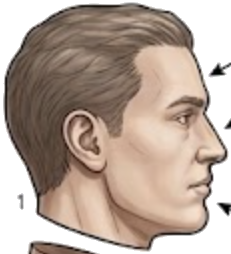
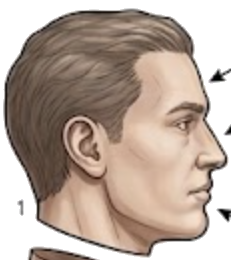
ART-1 item 2 shipped 19.09 (level worker): the real part art stops being stretched onto its collider box, and the check that named it goes green
The previous cycle (7dcf65e7) measured the card's own acceptance clause - "no stretched or squashed sprites; check against the collider bounds numerically" - and found 10 of 10 human parts drawn 1.05x (head) to 2.67x (hand) off their own aspect, because both the rig and the gallery stretch the whole PNG canvas onto the box from Human.cs and the legacy part sheets were cropped to the silhouette, not framed in the box's aspect. This commit takes that report's own recommended fix (option 1, mechanical, no painted pixel touched): Tools/import-part-art.py grows pad_to_aspect(), which adds a centred transparent margin so canvasW/canvasH == box.x/box.y and then sets the .meta spritePixelsToUnits = round(canvasW / box.x) so the canvas' own world size IS the box (the run fails if |canvasW/ppu - box.x| > 0.0015 m), plus --groups to restrict a run to one group. The boxes are read from Assets/Human.cs, the same authority the checker uses; the map is duplicated on purpose so the importer cannot silently agree with the checker. Only the ten Assets/Resources/Art/Human PNGs and their .meta move (guids unchanged, md5("ART1A:"+key)); no .cs file is created or edited and Build/Headless was not rebuilt, so the trial player every reference run is measured on does not carry the new bytes at all. Result: python Tools/art1-fit-audit.py now reads parts=11 distorted=0 (it read distorted=10 this morning), natural size and collider box identical for every part, the finish sign unchanged. Consequence
[…]

diff --git a/Tools/import-part-art.py b/Tools/import-part-art.py
@@ -1,5 +1,5 @@
 #!/usr/bin/env python3
-"""ART-1a - make the per-part art reachable at runtime.
+"""ART-1a / ART-1 item 2 - make the per-part art reachable at runtime AND fit.
 
 The 62 real PNGs live in Assets/LegacyArt, which is NOT a Resources folder, so
 Resources.Load cannot see them (ART-0 finding 2). This script imports the
@@ -8,18 +8,33 @@ space ArtLibrary already uses ("Human/head" -> Art/Human/head.png) - and writes
 a Sprite .meta for each file, copied from the shape ART-0 already proved
 (Assets/Resources/Art/bark.png.meta).
 
+ART-1 acceptance item 2 (added 19.09): a human part is drawn by `Sliced` onto
+its shipping collider box (`HumanSegment` and `GalleryScene` both set
+`sr.size` = the box from `Assets/Human.cs`), so a canvas whose OWN aspect
+differs from the box's is scaled by a different factor in X and in Y - the
+picture is squashed (measured, `Tools/art1-fit-audit.py`). A `Human/<part>`
+canvas is therefore padded with transparent margin to the box's aspect, and its
+.meta `spritePixelsToUnits` is set so the canvas' own world size IS the box:
+then `sx == sy`, the picture keeps its proportions, and the collider contract
+(canvas == box) survives untouched. No painted pixel is moved or repainted - the
+body simply stops being stretched. `Tools/art1-fit-audit.py` is the checker.
+
 Rules:
 - the seven material tiles (skin fabric denim dirt grass bark leaf) are NOT
   touched: ART-0 owns them;
 - a part is downscaled to at most --max-side pixels (default 512) with LANCZOS.
   The parts are stretched onto collider boxes of a few centimetres, so 1024-2048
   px sources buy no visible detail and cost build weight (ART-0 finding 4 made
-  the same call for the material tiles);
+  the same call for the material tiles); padding happens BEFORE that cap, so the
+  cap can never break the box aspect;
+- groups other than Human have no collider box of their own in `Human.cs`, so
+  they are imported unchanged (their rig binding is ART-3);
 - guids are md5(key), deterministic, and the run fails loudly if a generated
   guid already exists in the project.
 
-Run:  python Tools/import-part-art.py [--max-side 512] [--dry-run]
+Run:  python Tools/import-part-art.py [--max-side 512] [--groups Human] [--dry-run]
 """
+
 import argparse
 import hashlib
 import os
@@ -32,28 +47,77 @@ PROJECT = os.path.dirname(os.path.dirname(os.path.abspath(__file__)))
 SRC_ROOT = os.path.join(PROJECT, "Assets", "LegacyArt")
 DST_ROOT = os.path.join(PROJECT, "Assets", "Resources", "Art")
 META_TEMPLATE = os.path.join(DST_ROOT, "bark.png.meta")
+HUMAN_CS = os.path.join(PROJECT, "Assets", "Human.cs")
 
 # ART-0 owns these; do not re-import them here.
 MATERIALS = {"skin", "fabric", "denim", "dirt", "grass", "bark", "leaf"}
 
 GROUPS = ("Human", "Dog", "Crow", "Chicken", "Hedgehog", "Apple", "Strawberry")
 
+# part file name -> the Human.cs field that carries its shipping collider box.
+# This map is duplicated from Tools/art1-fit-audit.py on purpose: the audit is
+# the CHECKER (it reads the shipped bytes and the drawn box), the importer must
+# not import the checker and silently agree with itself. Both read the same
+# authority, `Assets/Human.cs`.
+PART_FIELD = {
+    "head": "headSize",
+    "neck": "neckSize",
+    "torso": "torsoSize",
+    "pelvis": "pelvisSize",
+    "upper": "upperArmSize",
+    "lower": "lowerArmSize",
+    "hand": "handSize",
+    "thigh": "thighSize",
+    "shin": "shinSize",
+    "foot": "footSize",
+}
+
 
 def guid_for(key: str) -> str:
     return hashlib.md5(("ART1A:" + key).encode("utf-8")).hexdigest()
 
 
-def build_meta(template: str, guid: str, ppu: int, max_side: int) -> str:
+def human_boxes():
+    """The shipping collider boxes, straight out of Assets/Human.cs."""
+    with open(HUMAN_CS, encoding="utf-8", errors="replace") as fh:
+        text = fh.read()
+    boxes = {}
+    for m in re.finditer(
+        r"public Vector2 (\w+Size)\s*=\s*new Vector2\(\s*([0-9.]+)f\s*,\s*([0-9.]+)f\s*\)", text
+    ):
+        boxes[m.group(1)] = (float(m.group(2)), float(m.group(3)))
+    return boxes
+
+
+def pad_to_aspect(im, aspect):
+    """Transparent margin so the canvas aspect equals the collider box aspect."""
+    w, h = im.size
+    if w <= 0 or h <= 0 or aspect <= 0.0:
+        return im, (0, 0)
+    if w / float(h) < aspect:
+        nw, nh = int(round(h * aspect)), h
+    else:
+        nw, nh = w, int(round(w / aspect))
+    if (nw, nh) == (w, h):
+        return im, (0, 0)
+    canvas = Image.new("RGBA", (nw, nh), (0, 0, 0, 0))
+    canvas.paste(im, ((nw - w) // 2, (nh - h) // 2))
+    return canvas, (nw - w, nh - h)
+
+
+def build_meta(template: str, guid: str, ppu, max_side: int) -> str:
     out = template
     out = re.sub(r"^guid: [0-9a-f]{32}$", "guid: " + guid, out, count=1, flags=re.M)
     out = re.sub(r"^  spriteID: [0-9a-f]{32}$", "  spriteID: " + guid + "0800000000000000",
                  out, count=1, flags=re.M)
-    out = re.sub(r"^  spritePixelsToUnits: \d+$", "  spritePixelsToUnits: %d" % ppu,
+    out = re.sub(r"^  spritePixelsToUnits: [0-9.]+$", "  spritePixelsToUnits: %s" % ppu,
                  out, count=1, flags=re.M)
     out = re.sub(r"^  isReadable: \d$", "  isReadable: 1", out, count=1, flags=re.M)
     out = re.sub(r"^  alphaIsTransparency: \d$", "  alphaIsTransparency: 1", out, count=1, flags=re.M)
-    out = re.sub(r"^  maxTextureSize: \d+$", "  maxTextureSize: %d" % max_side, out, count=1, flags=re.M)
-    out = re.sub(r"^    maxTextureSize: \d+$", "    maxTextureSize: %d" % max_side, out, flags=re.M)
+    out = re.sub(r"^  maxTextureSize: \d+$", "  maxTextureSize: %d" % max_side,
+                 out, count=1, flags=re.M)
+    out = re.sub(r"^    maxTextureSize: \d+$", "    maxTextureSize: %d" % max_side,
+                 out, count=1, flags=re.M)
     return out
 
 
@@ -78,18 +142,27 @@ def existing_guids():
 def main() -> int:
     ap = argparse.ArgumentParser()
     ap.add_argument("--max-side", type=int, default=512)
+    ap.add_argument("--groups", default=",".join(GROUPS),
+                    help="comma-separated subset of the groups to import")
     ap.add_argument("--dry-run", action="store_true")
     args = ap.parse_args()
+
+    wanted = [g.strip() for g in args.groups.split(",") if g.strip()]
+    unknown = [g for g in wanted if g not in GROUPS]
+    if unknown:
+        print("FAIL unknown group(s): " + ", ".join(unknown))
+        return 1
 
     with open(META_TEMPLATE, encoding="utf-8") as fh:
         template = fh.read()
 
+    boxes = human_boxes()
     taken = existing_guids()
     used_here = {}
     rows = []
     failures = []
 
-    for group in GROUPS:
+    for group in wanted:
         src_dir = os.path.join(SRC_ROOT, group)
         if not os.path.isdir(src_dir):
             failures.append("missing source group " + group)
@@ -118,6 +191,32 @@ def main() -> int:
                 else:
                     converted = im.convert("RGBA").resize(out_size, Image.LANCZOS)
 
+            # ART-1 item 2: canvas aspect == shipping collider box aspect.
+            box = None
+            pad = (0, 0)
+            ppu = 100
+            note = ""
+            if group == "Human" and stem in PART_FIELD:
+                field = PART_FIELD[stem]
+                if field not in boxes:
+                    failures.append("Human.cs has no %s for Human/%s" % (field, stem))
+                    continue
+                box = boxes[field]
+                converted, pad = pad_to_aspect(converted, box[0] / box[1])
+                pad_note = "pad%d,%d" % pad
+                cw, ch = converted.size
+                if max(cw, ch) > args.max_side:
+                    k = args.max_side / float(max(cw, ch))
+                    cw2, ch2 = max(1, int(round(cw * k))), max(1, int(round(ch * k)))
+                    converted = converted.resize((cw2, ch2), Image.LANCZOS)
+                    pad_note += " cap%d" % cw2
+                ppu = max(1, int(round(converted.size[0] / box[0])))
+                note = "%.3fx%.3f %s ppu%d" % (box[0], box[1], pad_note, ppu)
+                # the canvas' own world size must BE the box, to the pixel
+                if abs(converted.size[0] / float(ppu) - box[0]) > 0.0015:
+                    failures.append("Human/%s ppu %d gives %.4f m, box %.4f m"
+                                    % (stem, ppu, converted.size[0] / float(ppu), box[0]))
+
             guid = guid_for(key)
             if guid in taken and os.path.relpath(meta, PROJECT) not in taken[guid]:
                 failures.append("guid collision for %s: %s" % (key, taken[guid]))
@@ -129,18 +228,21 @@ def main() -> int:
                 os.makedirs(dst_dir, exist_ok=True)
                 converted.save(dst, "PNG", optimize=True)
                 with open(meta, "w", encoding="utf-8", newline="\n") as fh:
-                    fh.write(build_meta(template, guid, 100, args.max_side))
+                    fh.write(build_meta(template, guid, "%d" % ppu if isinstance(ppu, int)
+                                        else ppu, args.max_side))
 
-            rows.append((key, w, h, out_size[0], out_size[1],
+            rows.append((key, w, h, converted.size[0], converted.size[1],
                          os.path.getsize(src) // 1024,
                          os.path.getsize(dst) // 1024 if not args.dry_run else -1,
-                         guid[:8]))
+                         guid[:8],
+                         note))
 
-    print("%-26s %11s %11s %8s %8s %s" % ("key", "source", "import", "srcKB", "dstKB", "guid"))
-    for key, w, h, ow, oh, skb, dkb, g in rows:
-        print("%-26s %5dx%-5d %5dx%-5d %8d %8d %s" % (key, w, h, ow, oh, skb, dkb, g))
-    print("imported %d part files, %d KB -> %d KB" % (
-        len(rows), sum(r[5] for r in rows), sum(max(0, r[6]) for r in rows)))
+    print("%-26s %11s %11s %8s %8s %8s  %s" % ("key", "source", "canvas", "srcKB", "dstKB",
+                                               "guid", "collider box / pad / ppu"))
+    for key, w, h, ow, oh, skb, dkb, g, note in rows:
+        print("%-26s %5dx%-5d %5dx%-5d %8d %8d %8s  %s" % (key, w, h, ow, oh, skb, dkb, g, note))
+    print("imported %d part files, %d KB -> %d KB (groups %s)" % (
+        len(rows), sum(r[5] for r in rows), sum(max(0, r[6]) for r in rows), ",".join(wanted)))
 
     if failures:
         for f in failures:

diff --git a/CURRENT.md b/CURRENT.md
@@ -25,7 +25,7 @@ Trial proof: `Trials/Runs/<label>.json` → `applied`.
 | physics | **VEST-2**: per-foot quiet ankle coded (`quietAnklePerFoot` 1). Next: `pf23v2` +23 N·s. | `.cursor/tasks/VEST-2-balance.md` |
 | physics | ONELEG-1 accepted (Yury): `oneleg_sym` / `oneleg_sym_l`, both 30 s, span 0.75° / 0.79°. | `.cursor/tasks/ONELEG-1-physics.md` |
 | physics | ONELEG-2 **wall**: 90° pose holds; CoM ankle loop is bistable. Do not reopen. | `.cursor/tasks/ONELEG-2-march.md` |
-| physics | WALK-2 closed 18.09 (`walk1_load4`, fp a53d483f): recorder complete — `check-owners.py` OK, 160 cols, no NaN, every joint owned; demanded-vs-applied answered: **hips = (b)** (applied ±100 in 190/274 frames at 69 % while the demand is ≤21 % of the ceiling and the angle target is pinned at +35.0°), **ankle = (b)** (extensor −65 pegged with a −10 N·m ask; the only real overshoot is the flexor demand 68.96 vs 22 N·m = 3.13x). One criterion for the project in `Assets/FallCriterion.cs` (human/dog/arena routed, local rules deleted) + a measured load meter (fzL/fzR/xCopMeas/lambda/dcm). Next after cycle 6k: **the solver is clean** (`captureSwingSolvedResidualX` exactly 0.0000 m on all 446 walk frames) and the 0.457 m lives in the DELIVERY - the solve frame is the PLAN frame (-3 deg) while the measured trunk is at -22 to -34 deg; see `Trials/Runs/walk-cycle6k-accept.md`, next brief `F:/hermes-data/ds-walk-cycle6l.md`. Then targets/reference, never the ceilings. Arena `fallen` still 61/61 — its baseline window sits inside the spawn settle. | `Trials/Runs/walk1_load4-report.md`, `Assets/FallCriterion.cs` |
+| physics | WALK-2 closed 18.09 (`walk1_load4`, fp a53d483f): recorder complete — `check-owners.py` OK, 160 cols, no NaN, every joint owned; demanded-vs-applied answered: **hips = (b)** (applied ±100 in 190/274 frames at 69 % while the demand is ≤21 % of the ceiling and the angle target is pinned at +35.0°), **ankle = (b)** (extensor −65 pegged with a −10 N·m ask; the only real overshoot is the flexor demand 68.96 vs 22 N·m = 3.13x). One criterion for the project in `Assets/FallCriterion.cs` (human/dog/arena routed, local rules deleted) + a measured load meter (fzL/fzR/xCopMeas/lambda/dcm). Next after cycle 6k: **the solver is clean** (`captureSwingSolvedResidualX` exactly 0.0000 m on all 446 walk frames) and the 0.457 m lives in the DELIVERY - the solve frame is the PLAN frame (-3 deg) while the measured trunk is at -22 to -34 deg; see `Trials/Runs/walk-cycle6l-accept.md` (6l measured: the frame owns the plant gap - 0.5015 m of the 0.457 m, `SolveFrameAngle` -3.01 vs applied -37.82 deg, clamps unsaturated at 0.0024, tracking 0.0448 m), next brief `F:/hermes-data/ds-walk-cycle6m.md`. Then targets/reference, never the ceilings. Arena `fallen` still 61/61 — its baseline window sits inside the spawn settle. | `Trials/Runs/walk1_load4-report.md`, `Assets/FallCriterion.cs` |
 | physics | deep crouch WIP intentionally leaves code defaults 98/28 after `crouch_accept`; accepted journal remains 55/12 until the physics work closes | HumanPhysics continuation |
 | artist | code hand is `0.06×0.16`; card still wants `0.19`; walk fold at 0.19 is recorded | `.cursor/tasks/ART-HAND.md` |
 | docs | pointers and baselines; do not clean Runs | `DOCS.md` |
@@ -34,7 +34,7 @@ Trial proof: `Trials/Runs/<label>.json` → `applied`.
 | level | **BALANCE-ARENA-1 DONE 19.09** (level worker; fp `1d86f80e`, buildGuid `5794f0ef`): `Assets/Scenes/BalanceArena.unity` exists (Main Camera + `ImpactArena` host, runtime world like `WalkArena`) and runs in a player (`GalleryPreview.exe -scene BalanceArena` -> its own `impact_play-impacts.json`). One real `Rigidbody2D` per throw (`Assets/ImpactThrower.cs`), per-throw record (`Assets/ImpactRecorder.cs`), harness hooks `-impact 1` + `-impactMass/-impactShape/-impactSpeed/-impactAim/-impactSide/-impactAt/-impactCount/-impactSpacing/-impactSeed/-shotInterval`. Acceptance: `-impactCount 0` (40 s) is the stand **to the last digit** (pelvisDrop 0.0148, rmsShoulder 2.6542, rmsElbow 7.5647, armSwingFraction 0.0, 0 physics diffs vs `burn_stance`); same-seed pair `imp_s1a`/`imp_s1b` bit-identical (CSVs byte-identical); in-plane asserted (`outOfPlaneCount 0`). First throws: 32 N·s at the torso -> down in **0.605 s**, CoM travels 1.98 m, **0 steps taken**; 72 N·s at the head -> 0.565 s; 180 N·s at a leg -> peak fzTotal 4442 N (6.4x weight). **L1: latency = 5 ms (one frame) -> FAILS the card's 40-150 ms**: the joint PD answers the measured joint state with zero proprioceptive delay (raw frames in the report); the reflex delay belongs to the `BalanceController*` stream. Video 1080p: `Trials/Runs/impact_imp_v1_circle_0_25_m_4_kg_8_m_s_1080p.mp4` (24.05 s) + `impact_three_throws.mp4` (54.15 s) + stills. **LABELS 19.09** (level worker; fp `bfcb3a69`, buildGuid `9f9782ea`, runs `imp_v1L`/`imp_v2L`/`imp_v3L`/`imp_v5`): `Assets/ImpactCaption.cs` (new) draws the parameters and the live per-throw banner on the frame - what was thrown, what it hit and when, reference vs delivered impulse, CoM excursion, min support margin, steps after the impact, outcome - plus a cross on the contact point for 1 s. The recorder composes the text it measures and builds the caption itself, so both entry points (the scene and the headless harness) get it and `HeadlessTrial.cs` was not touched; `GalleryLabels.AddPlate` is now public. Rule zero re-verified on this build: `imp_quiet_cap2` (`-nographics`, the card's protocol) is **bit-for-bit** `imp_quiet40` - 719 shared keys, every difference is label/buildGUID/time/fingerprint/`wallPerSim` - so `pelvisDrop 0.0148`, `rmsShoulder 2.6542`, `rmsElbow 7.5647`, `armSwingFraction 0.0`, `sensorTick 8002`, `maxAbsPelvisAccY 14.2838` all unchanged. The banner's final line equals the published rows to the last digit (30.228/1.984/-0.925/0.605 s; 57.567; 171.834/1.28/-0.887/0.480 s) and all eight `throws[0]` columns are identical to `imp_v1`/`imp_v2`/`imp_v3`. Labelled video: `impact_three_throws_labelled.mp4` (54.15 s, 1080p) + `impact_imp_v1L/v2L/v3L_..._1080p.mp4`; the unlabelled cut is kept as `impact_three_throws_pre-labels.mp4`. Report `Trials/Runs/impact-labels-report.md`. Note: only `-nographics` reproduces bit-for-bit, so each video is one take. **GRID 19.09** (level worker; fp `4681f70b`, buildGuid `42e3c16c`, ONE build, seed 1, `-nographics`, 12 runs `grid_<shape>_<mass>_<speed>`, no `.cs` touched): the card's §7 item 2 — the ends of the card's own ranges, never run before (0.5 kg / 15 kg × 4 m/s / 20 m/s × circle 0.25 / square 0.30 / rect 0.60×0.30). Verdicts: **3 of 12 classes stand, 9 go down, and the split IS the sign of the support margin** (STANDS `minSupportMarginM` +0.139, DOWN −0.896…−1.031, `wentOutsideSupport` matching in 12/12, `clairvoyanceFlag` false in 12/12); `stepsAfterImpact` **0 in 12/12**; the survival boundary for a torso hit sits between 2 and 10 N·s (all three shapes); time to fall follows the momentum, not the speed (10 N·s light-fast 1.325-1.340 s, 48-54 N·s heavy-slow 0.445-0.455 s, 236-281 N·s 0.210-0.220 s); delivered fraction 98-106 % at 2-10 N·s, 79-89 % at 60 N·s, 79-94 % at 300 N·s; in-plane everywhere (`maxAbsZMeters` 0, `projectileGravityScale` 0). Rule zero re-verified on this build: `imp_quiet_grid` vs `imp_quiet40` = 700 shared keys, **11 differences, all identity/clock** (label, buildGuid, manifest build guid/time, fingerprint, `wallPerSim`, `wallSeconds`, `commandArgs`), the card's four numbers unchanged (0.0148 / 2.6542 / 7.5647 / 0.0). FIVE instrument findings, none of them physics — the next cycle's single change: (a) **L1 passive AND active latency 5.000 ms in 12/12** = exactly one fixed step, the collision itself crosses both bands, so this metric cannot resolve the card's 40-150 ms window (it measures when the blow ARRIVES); (b) **no active-reaction-off switch** among the 14 impact switches (`-impact…` list), so L3 has no run and the divergence-based L1 cannot be built; (c) `pushedBack` fires at contact+0…+5 ms in 12/12 with the peak fz/W arriving +5…+125 ms, and the above-weight impulse is 3-13 frames in the falling classes vs **468-473** in the standing ones (the stand's own 200 Hz fz oscillation) — the column is not comparable across classes and does not separate collision from push-back; (d) `closingSpeedMps` = `collision.relativeVelocity.magnitude` is **0.059 m/s in `grid_rect_15_4`** against its own 3.940 m/s launch and its 1.271 m/s post-hit track (85 % of its reference impulse delivered) — the caption prints that wrong number, 11 of 12 classes report closing == launch (1.000); (e) the throw row's `fell` is the shared `FallCriterion` alone, the controller's own fall state (available as `ctrlFallState*` in the walk harness) is not wired in. Evidence: `Trials/Runs/impact_grid_ends.mp4` (**54.15 s, 1083 frames, 1920×1080**) + three 24.05 s takes (`impact_imp_g1L_circle_0_25_m_0_5_kg_20_m_s_1080p.mp4`, `imp_g2L_square_15_kg_20`, `imp_g3L_rect_15_kg_4`) + 6 stills, every frame captioned by `ImpactCaption.cs`; `-visual` vs `-nographics` on the same class differs in the last digits only (worst `minSupportMarginM` 1.4 mm). Runners/audits: `Tools/impact-grid.sh`, `impact-grid-video.sh`, `impact-grid-table.py`, `impact-grid-verdict.py`, `impact-pushback-audit.py`, `impact-ground-audit.py`, `impact-closing-audit.py`, `impact-closing-check.py`, `impact-projectile-track.py`, `impact-json-diff.py`, `impact-throw-diff.py`. Report `Trials/Runs/impact-grid-report.md`. **L2 NO-CLAIRVOYANCE 19.09** (level worker; fp `3c4dfc53`, buildGuid `59b8b311`, 5 runs `l2_quiet`/`l2_hit_s1`/`l2_hit_s1b`/`l2_hit_s2`/`l2_hit_s3`, 12 s, `-nographics`, ONE build, no `.cs` touched): the card's §L2 measured instead of assumed. Static: the 17 files of the human's control path (`BalanceController*`, `GaitStateMachine`, `StepPhaseDriver`, `PoseDriveController`, `ArmDrive`, `Human`, `HumanSegment`, `VestibularSystem`, `BodyStateEstimator`, …) hold **0** references to `ImpactThrower`/`ImpactProjectile`/`Projectile`/`-impact`, and every physics query they can make is masked to `Ground` (layer 6) while the thrown body keeps Default (layer 0) and the throw lane writes no layer at all — so the solver's own contact response is the only channel that can reach him. Behavioural: the **1621 pre-contact frames** of a scheduled 8 s throw are bit-identical to the quiet stand (0 differing rows, 0 differing body columns, differing columns: none) — no bracing. Seed: 1/2/3 move time (7.805372/7.952081/8.098790 s), side (+1/+1/−1) and aim (Torso/Torso/Pelvis) while the ordered 32 N·s impulse is identical in all three; the same seed twice is byte-identical (`csv md5 03f44d42a043d3c53f50720926ec7219`). FINDING: `System.Random`'s small seeds are correlated — the three plan times sit exactly 0.146709 s apart, inside the 0.25 s jitter contract but **a sequential-seed sweep is not an independent sample** (scatter the seeds for any distribution claim); and the 5.0001 ms latency of item (a) is confirmed to be ARRIVAL, not an answer, because the body provably does nothing before the blow. L2 PASSES; L3 still has no run (it needs an active-reaction-off switch inside the physics lane's controller). **CURRENT-BUILD EVIDENCE 19.09** (level worker; player `7ebbad89`, fp `559e2e50`, gitCommit `fca0a4a8`, ZERO source edits, 7 runs `imp_cb*`): the card's evidence clause (the delivered run's `sourceFingerprint` == `Build/Headless/build-manifest.json`) was satisfied by no run in the folder (imp_v1 11:56, grid 12:0x-15:1x, L2 18:03), so the accepted protocol was re-run on the player on disk and the video cut from those runs. Identity **MATCH on all 7**; rule zero bit-for-bit (7/7 card numbers, and `imp_cb_quiet` vs the 11:56 `imp_quiet40`: 700 shared keys, 11 differences, all identity/clock). The same class on three builds of the day: contact 8.110043 s, reference 32 N·s, delivered 30.22801 N·s, `latencyActiveMs` 5.000114, down 0.605014 s identical on all three, while the post-fall extrema move (`peakComExcursionM` 1.984342 → 1.911077 → 1.868298, `minSupportMarginM` -0.925346 → -0.925359 → -0.901962, `peakComDropM` 0.810421 → 0.810422 → 0.827085) — and `Tools/impact-cb-diverge.py` locates the move: **1937 of 2400 CSV rows bit-identical**, the first difference at t = 9.690079 s = contact + 1.580 s, body already down (tilt -46.54031 → -46.48721, bodyAngVel -219.5161 → -208.6491), so the response to the blow did not move, the post-fall settling did (candidate, not a bisect: the 18:56-19:11 arm/leg-lane edits in the 19:24 player). Evidence: `impact_current_build.mp4` (**54.15 s, 1083 frames, 1920×1080**, three takes cut from t = 6 s) + three per-class 24.05 s cuts (481 f each) + 12 stills (contact / criterion fall / ctrl fall / window end per take), all captioned by `ImpactCaption.cs` with this build's own identity. Tools `Tools/impact-cb-runs.sh`, `impact-cb-table.py`, `impact-cb-diverge.py`; report `Trials/Runs/impact-cb-report.md`. **Still open in this lane: L1** (5.000114 ms = exactly one fixed step = the ARRIVAL of the blow, so the metric cannot resolve the card's 40-150 ms band) **and L3** (no switch disables the active reaction; building one means editing `Assets/BalanceController.cs`, the balance stream's file). | `.cursor/tasks/BALANCE-ARENA-1.md` |
 | level | ARENA check 19.09 (Hermes; fingerprint `b63dda80`, buildGuid `36aa1bba`; runs `arena_chk1`/`arena_chk1b`/`arena_chk_video`, seed 7, 180 s): runs, writes JSON + CSV, appends to the append-only `arena-param-log.csv` (331 rows); interval 0.5 s assert OK; alive cap 60 never crossed (361 spawns, 301 culled); `ArenaHuman` x `ArenaHuman` off, x ground on (58 overlapping bodies, no push); determinism 361/361 identical genomes and distances; inheritance 185/331 children from the top quartile (chance 0.25), zero-mutation-delta children 0/166, no gene's spread at 0; the shared `FallCriterion` discriminates (7/331 upright at 15 s; before it `fallen` was 61/61). **HEAD NUMBER FIXED 19.09** (level worker; buildGuid `19547550`, fp `4914add9`, runs `arena_num1`/`arena_num2`, seed 7): the digit is now sized from the HEAD's own collider box (measured 0.230 m) and the requested `ArenaRunner.numberHeight` 0.34 m acts as a ceiling - drawn **0.127 m = 0.55x the head** (correction's ceiling 0.60), anchored `MiddleCenter` INSIDE the skull, and read back from the rendered mesh (`measured` 24/24, `insideHead` 24/24); 7 whole bodies with 31 px digits in one 1080p frame (`Trials/Runs/photo_arena_num1_00.png`, t=6 s). Rule zero: two runs differing only in `-arenaNumber` give 81/81 identical human rows. Report `Trials/Runs/arena-number-report.md`. The genome is still the 13 C1 genes - the wide 155-gene box is a spec only (`arena-wide-genome.md`). Elite copies 65..81 drift 0.346 m from their reference at the same age (path 1.46 m) while the back-to-back pair 57/58 is exactly 0.000 m. `arena-report.py` crashed on an unbound `video` (fixed 19.09) | `.cursor/tasks/ARENA-1-param-sweep.md` |
 | level | **SPECIES SCENES 19.09** (level worker; buildGuid `2c54685e`): `Assets/Scenes/TreeOak.unity` + `TreePine.unity` are clones of the accepted `TreeApple.unity` whose ONLY difference is the three fields that name the species (`Tools/species-scenes.py` writes them, `--check` re-verifies, both also in the preview player's scene list). Each scene holds exactly one tree - oak/pine run `PlantTree 1 / AppleTree 0`, every other spawn counter 0 - and each still is 1920x1080 with the whole tree in frame (`Trials/Runs/treeoak_photo.png`, `treepine_photo.png`; the control `treeapple_ctl_photo.png` reproduces the 11:02 apple numbers to the digit: height 3.256089, ortho 1.790849). The framing law `ortho = 1.1 * max(h/2, w/2/aspect)` matches all three measured boxes to 1.5e-5 m and gives 1.100 for a 2 m tree, 2.750 for a 5 m one. Measured transient: oak and pine each have ONE frame outside the frame (t = 0.020 s, 1.47 m / 0.92 m out) on the frame after the real art lands; `missFramesAfterOneSecond` 0 in all three. **SPECIES SET COMPLETE 19.09** (level worker; fp `54b94b65`, one build): the remaining seven (willow, bush, poplar, lilac, hazel, cedar, plum) are in as the same clones, so all nine `PlantTree.ParseKind` kinds have a scene and `Tools/species-scenes.py` now fails if a parsable kind has none (`COVERAGE parseKind=10 scenes=10 missing=none`); ten runs (apple control + nine) each report `treeCount 1` (apple `AppleTree 1/PlantTree 0`, the rest `PlantTree 1/AppleTree 0`), `fits true`, `missFramesAfterOneSecond 0`, and the framing law holds on all ten to 9.8e-5 m. Findings: the **cedar's drawn box is 33.5 x 34.7 m** because 189 of its 746 parts are over 5 m (biggest leaf fan 19.40 x 16.06 m on a lossy scale of 1338) while its 12 colliders stay <= 0.48 m - a picture-only rig defect for the plant lane. Gallery re-shot on the same build (`gallery3`, 7/7 fits, 28 real/13 missing, pan 165 f = 16.5 s, real-vs-placeholder PSNR 39.33 dB). Report `Trials/Runs/tree-species-all-report.md`. **SPECIES STILLS REFRESH 19.09 (level worker, no source edit, no build):** the ten stills on disk were captured 14:40-14:42 on `buildGuid 54b94b65`, but `Art/leaf.png` (19:50), `Level/ground_cap.png` (19:22) and `Level/sign_finish.png` (17:21) were written AFTER that capture and Resources bake into a player at build time - so Yury would have judged the previous art. All ten re-run on the player already on disk (`buildGuid 0114b556a23e4529aa49c9331438d87b`, the same id the newest gallery capture `art0flame1` carries, `resources.assets` 20:28): `SPECIES-RUN-ALL scenes=10 failed=0`, each `treeCount 1`, `fits true`, 1920x1080. `Tools/species-refresh-check.py Trials/Runs/species-pre-art0leaf` (new tool; the outgoing stills are kept in that folder): `acceptance-failures=0 pictures-repainted=10 pictures-unchanged=0` - all ten pictures move (ffmpeg PSNR 35.4-52.9 dB vs the outgoing still) and every acceptance field comes back (three lengths to 1e-5 relative; worst cedar 1.4e-4 m = 4.3e-6 rel, apple/pine exactly 0). The cedar's 1.45e-4 m is the live player's own wobble, measured: a third run reads 33.49763488769531 against 33.49775695800781 -> 33.49761199951172. No file under `Assets/` was touched. Report `Trials/Runs/tree-species-refresh-report.md` | `Tools/species-scenes.py`, `Tools/species-run-all.sh`, `Tools/species-refresh-check.py` |
-| level | **ART-1 item 2 measured 19.09** (level worker; no build, no `Assets/` write, no trial): `Tools/art1-fit-audit.py` (+ `Tools/art1-fit-audit-crosscheck.py`, 10/10 identical to Pillow) reads the shipped PNGs, `Human.cs`, `GalleryScene.cs` and `LevelTest1.cs` and reports the drawn-vs-art aspect per part — the finish sign fits exactly (scale 0.28/0.28), and **10 of 10 human parts are drawn 1.05x (head) to 2.67x (hand) off their own aspect** wherever a part picture is `Sliced` onto its collider box, which is what the gallery does and what the rig does (`HumanSegment` draws the collider box). The hand is the worst row in the catalogue although `ART-HAND` exempts it in the rig, and `ART-FOOT`'s ×2.42 is stale (its `VisualSize` growth no longer exists in `HumanSegment.cs`; the current number is 1.69x). Next single change: pad the part PNGs to the box aspect in `Tools/import-part-art.py`. Report `Trials/Runs/art1-fit-report.md` | `ART-1-gallery.md` item 2 |
+| level | **ART-1 item 2 measured 19.09** (level worker; no build, no `Assets/` write, no trial): `Tools/art1-fit-audit.py` (+ `Tools/art1-fit-audit-crosscheck.py`, 10/10 identical to Pillow) reads the shipped PNGs, `Human.cs`, `GalleryScene.cs` and `LevelTest1.cs` and reports the drawn-vs-art aspect per part — the finish sign fits exactly (scale 0.28/0.28), and **10 of 10 human parts are drawn 1.05x (head) to 2.67x (hand) off their own aspect** wherever a part picture is `Sliced` onto its collider box, which is what the gallery does and what the rig does (`HumanSegment` draws the collider box). The hand is the worst row in the catalogue although `ART-HAND` exempts it in the rig, and `ART-FOOT`'s ×2.42 is stale (its `VisualSize` growth no longer exists in `HumanSegment.cs`; the current number is 1.69x). **PADDED 19.09** (level worker; fp `5ee9ecae`, buildGuid `dc09a872`, preview `PREVIEW_BUILD_OK`): the fix the report above recommended is in - `pad_to_aspect` in `Tools/import-part-art.py` adds a centred transparent margin so the canvas aspect equals the shipping collider box from `Human.cs`, and the `.meta` ppu makes the canvas' own world size that box (checked to 0.0015 m or the run fails), so the picture is scaled by ONE factor instead of two; `ART1-FIT parts=11 distorted=0` (was distorted=10, hand 2.67x). Consequence measured: the body keeps its proportions and fills 95 % (head) down to **33 % (hand)** of its box, torso 57 %, foot 58 % - so the remaining item-2 rows are a decision, not a mechanical fix (artist repaint in the box aspect, or the hand box in `Human.cs`). Only the ten `Human/*.png` + `.meta` under `Assets/Resources` moved, no `.cs`, and `Build/Headless` was not rebuilt. Frames `gallery5_photo/_human/_tree/_apple/_materials/_level/_fire/_placeholder` + `gallery5_pan.mp4` (165 f, 16.5 s, 1080p), A/B pair `gallery4b_human.png` vs `gallery5_human.png`. Report `Trials/Runs/art1-pad-report.md` | `ART-1-gallery.md` item 2 |
 | bird | BIRD-12: inter-bird contact is torso+head (`BirdCore`); limbs/perch `BirdLimb`. Walk = `walkThrust` on the body. Opt 02.09 flock 50 still the 200 Hz edge; no `GetContacts` | `BIRD-12-core-contact.md`; `opt_bird_code_02.md` |
 | plant | TREES T1 DONE 18.09 (oak build f9d594f0, apple 8000f531, instrumentation only): `<label>_joints.csv` per-step per-joint trace, run block = measurements only vs `build:` = constants + rig hash, `tree-const-assert.py` flags constants hiding in a run block; oak bit-identical to pre-T1 (17/17 keys). **T1 apple gap closed 19.09** (build cae2483a): `TreeBase.BindGravityHold` fills `gravityGradient`, so the apple no longer reports 0 on all 15 joints — apple `apple_t1gap_*` vs the pre-edit player `apple_t1g0_*` moves 28/30 run keys nowhere but `wallPerSim`+`sourceFingerprint`, and only the 19 gradient fields move anywhere; oak `tree_t1gap_*` vs accepted `tree_t1_*` build 93/93. Report `Trials/Runs/apple-t1gap-report.md`. **T1-sway 19.09** (build `3f93bfc4`, instrumentation only): the apple's two doubted numbers are now honest — one tip segment chosen once and followed, a settled window (t>=4 s), a per-joint PINNED TIME fraction with the overshoot past the stop, and a WIND-OFF run (`PlantBase.windOffSeconds` + `TreeBase.FixedUpdate` gate + `-appleWindUntil <s>`, 0 = old behaviour). 28 of 28 physics run keys bit-identical to the pre-edit player on hold AND wind 0.12 (`apple_t1sw_*` vs `apple_t1sw_base_*`), oak reproduces the canon. Findings: `swayAmpM` 0.1465 m was a startup transient (settled sway 0.0222 m, below the 0.10-0.30 band); the pinned joint is J08, 68.3 % of the hold samples, 0.674 deg OUTSIDE its own stop, overrun up to 2.066 deg under wind (soft stops); wind off at 4 s -> residual 0.0220 deg from the hold pose, crown tip back within 0.0007 m. Next: T2 diagnosis. Report `Trials/Runs/apple-t1sw-report.md`. **T1-oak 19.09** (build `8e9ed340`, instrumentation only): the same honest windows are now on the OAK (`PlantTrialRecorder` + `PlantTree.windOffSeconds`/`ApplyWind` gate + `-treeWindUntil <s>`, 11 added run keys, 4 added build keys, nothing renamed). `_t1oak-accept.py`: oak base vs post PASS on hold AND wind 0.12 (no run key moved, build block only moves the wind config), apple controls reproduce the accepted T1-sway values to the digit, oak canon bit-identical (0.00103 / 34.17341 / 0.2553246 / pinned 0.20). Gate proof `_t1oak-gate.py`: wind-off vs wind-on identical to 0.000000 deg until the switch opens at t=3.990 s, then they separate. Findings: `swayAmpM` 1.287312 is a transient (stable-tip whole run 1.473969, settled 4-8 s 0.179467 m, inside T3's [0.05H,0.15H] for H=2.332039 m); pinning is 3 of 15 joints (J00 66.1 %, J08 85.2 %, J01 7.5 %), overrun 0.151758 deg; wind off at 4 s -> the motion decays (mean |dAngle|/step 0.00311 -> 0.00070) but the POSE does not return: residual 32.72058 deg, tip 1.368073 m — the trunk sits on its +-16 deg stop and the 180 N.m/rad spring cannot lift the 259.7 N.m/rad weight gradient (T3/T4 input; T3's RETURN TEST fails on the oak today). Report `Trials/Runs/tree-t1oak-report.md`. **T1 close-out + THE T2 FRAME FIX STOOD AND COMMITTED 19.09** (Hermes; commit `c9129bc1`, ONE file `Assets/TreeBase.cs`; player `cb7e4ef6`, gitCommit `9a43a74e`; runs `tree_t1c2_hold/_wind012/_windoff`, `apple_t1c2_hold/_wind012/_windoff` + a repeat): the oak canon `tree_t1oak_*` and the apple's post-edit pair `apple_t1sw_hold/_wind012` are BIT-IDENTICAL to the fresh reruns (run block and build block, and 0 of 1600 `joints.csv` rows differ on each pair), while the pre-T2 `apple_t1_*` pair correctly moves 23 run keys (that pair is the "before", not a target). Stand criteria all met: born-behind 4/15 -> 0/15, `springSatFraction` 0.06620833 -> 0 on every joint (per-joint CSV, J08 0.993125 of 1600 rows -> 0.000000), fingerprint == manifest, rigs unchanged (`dcc15b908146504e` / `b242a8ddd29b0b28`). FOUND this cycle: `apple_t1sw_windoff` does NOT reproduce — it diverges from its own sibling wind-on run (same fp, same player) at row 2, t = 0.01 s, 1599 of 1600 rows — so wind-off evidence is now `apple_t1c2_windoff` (release peak 6.448067 deg, 0.11 deg past the wind-on peak 6.335289; residual 0.022004 deg from the hold pose, crown tip 0.000672 m); the oak's wind-off label is fine. `tree-const-assert.py` fires on the apple pair for three DISCRETE counts (J08 and J01 are the only joints that ever enter the 0.2 deg band, in either run). Report `Trials/Runs/apple-t1c2-report.md`. **T1 RE-VERIFIED ON A NEW PLAYER 19.09** (cycle `T1`, zero source edits, 11 runs, fp `4681f70b`, gitCommit `ac2299ea`, gate "OK at 15:12"): the oak canon `tree_t1d_*` and the apple's accepted pair `apple_t1d_nv_*` reproduce BIT-IDENTICAL on the player the other four streams rebuilt — run block, build block and **0 of 1600 `joints.csv` rows** (oak hold/wind/wind-off vs `tree_t1oak_*`; apple hold/wind vs `apple_t1sw_*`, apple wind-off vs `apple_t1c2_windoff`; a repeat is bit-identical to its sibling), while the PRE-T2 pair moves 23 run keys and the STALE `apple_t1sw_windoff` moves 12 — its fingerprint does not name the player that made it, confirmed a second time. **FOUND: `-visual` is not a neutral flag** — it shifts the recorded trajectory from row 2 (t = 0.01 s) deterministically on BOTH rigs and on BOTH players (apple 1599 of 1600 rows differ, 1.725 N·m in `J00_springTorque` at that row; oak 1231 rows, 5.95e-03 deg, but the oak CONVERGES back to a 0.000e+00 last-row delta while the apple keeps 7.7e-04 deg; the old player's `-visual` label `apple_t1c2_photo_hold` is bit-identical to today's `apple_t1d_hold`), so **a physics label must never carry `-visual`** — compare only within the same switch shape. T2's frame fix still stands (born-behind 0/15 on every run today, no joint at its cap; PRE-T2 4/15 with J08 at the 40 N·m cap in 0.993125 of 1600 rows). Wind off at 4 s: release peak 6.448067 vs the wind-on peak 6.335289, residual 0.022004 deg, crown tip 0.000672 m. Still missed by the apple: pinned 0.06666667, settled sway 0.02222349 m (below the 0.10-0.30 band) and `crownDrop` 0.00667548 m — the T2 fix RAISED it from 0.00265265. Picture `Trials/Runs/apple_t1d_windoff.mp4` (82 frames, 1080p) + `apple_t1d_windoff_photo.png`; report `Trials/Runs/apple-t1d-report.md`; helpers `_t1d-accept.py`, `_t1d-visual.py`, `_t1d-firstdiff.py`. **T1 re-verified 19.09** (apple worker, player `3c4dfc53`, gitCommit `8ce38675`, seven runs, ZERO source edits): every accepted label is bit-identical again — apple `apple_t1e_*` == `apple_t1sw_*` and `apple_t1c2_windoff`, oak `tree_t1e_*` == `tree_t1oak_*`, run block AND build block AND 0 of 1600 CSV rows on every pair; the canon now reproduces across THREE players, the PRE-T2 pair and the STALE label still move (negative controls), const-assert fires on the same discrete keys, and the `-visual` picture `apple_t1e_photo_windoff` is byte-identical (md5) to `apple_t1d_windoff` (frames, mp4, still). The apple brief's job 2 was already landed by the level worker: `Assets/Scenes/TreeApple.unity` plus `GameProcess.cs:500-519` routing `AppleTree` by `treeSpecies`, so it must not be asked for again. Report `Trials/Runs/apple-t1e-report.md`; helpers `_t1e-runs.sh`, `_t1e-accept.py`, `_t1e-photo.sh`, `_t1e-dump.py`. **T1 re-verified on a FOURTH player 19.09** (apple worker, cycle `T1f`, player `fc6471dd`, gitCommit `35c7fbbd`, gate "OK at 19:01", eight labels, ZERO source edits): 11 of 11 pairs bit-identical again — apple `apple_t1f_*` == `apple_t1sw_hold`/`_wind012`/`apple_t1c2_windoff` and == the previous cycle's `apple_t1e_*`, the wind-off repeat == its own sibling, oak `tree_t1f_*` == `tree_t1oak_*` — run block AND build block AND 0 of 1600 `joints.csv` rows on every pair, so the canon now reproduces across FOUR players; the negative controls still move (PRE-T2 pair 23 run keys + CSV from row 1, STALE `apple_t1sw_windoff` 12 keys + CSV from row 2) and `tree-const-assert.py` fires on the same discrete sets (apple 3, oak 1). Picture `apple_t1f_photo_windoff` (41 frames, mp4 865 646 B, still 725 666 B, one whole apple tree, nothing else in frame — checked on the image) is byte-identical by `md5` to the two previous cycles' pictures. FOUND, read-only: `GetHingePinnedFraction` (`Assets/TreeBase.cs:640-655`) counts `|angle - limit| <= 0.2` deg and keeps the MAX instant, so a joint sitting 0.7 deg OUTSIDE its stop is not counted — the trace's per-joint time fractions are hold J01 0.7781 (overshoot 0.6740 deg, outside) and J08 0.6831, wind 0.12 J01 0.8244 / 2.0664 and J08 0.7625 / 1.1959, and no other joint ever enters the band, so "pinned 0.00" can be met while the crown rests on a soft stop; read `maxHingeOverrunDeg` beside it (T4). Wind-off gate proven on the trace: row-identical to its own wind-on sibling through row 799, first differing at row 800 (t = 4.004949 s); motion in the last second 0.004357 -> 0.000923 mean |dAngle|/step over 15 joints (ratio 0.212), residual 0.022004 deg, tip back within 0.000672 m. Report `Trials/Runs/apple-t1f-report.md`; helpers `_t1f-runs.sh`, `_t1f-accept.py`, `_t1f-detail.py`, `_t1f-dump.py`, `_t1f-photo.sh`. **T1g 19.09** (apple worker, zero source edits, player fp `0fd4f288…` gitCommit `73e5f3bd`, gate REBUILT "OK at 20:07"): T1 had no open work, so the cycle is its own acceptance test again — **11 of 11 pairs bit-identical** (run block AND build block AND 0 of 1600 `joints.csv` rows) for `apple_t1g_hold`/`_wind012`/`_windoff` against the canon `apple_t1sw_*` / `apple_t1c2_windoff`, the wind-off repeat against its own sibling, and `tree_t1g_*` against `tree_t1oak_*`; the apple canon now reproduces across **five** players (`cb7e4ef6` -> `4681f70b` -> `3c4dfc53` -> `fc6471dd` -> `0fd4f288`), negative controls move as they must (PRE-T2 pair 23 run keys / 11 added, CSV from row 1; STALE `apple_t1sw_windoff` 12 keys, CSV from row 2), `tree-const-assert.py` FIRES on the same 3 discrete keys, born-behind 0/15 and no joint at its cap. Picture `apple_t1g_photo_windoff` (41 frames, 1080p) is **byte-identical by `md5`, frames included**, to the three previous cycles' pictures (mp4 `d10ec27d…` 865 646 B, still `347e44ce…` 725 666 B), one whole tree, nothing else in frame. The three unmet acceptance numbers are T4/T5 (pinned 0.06666667, settled sway 0.022223 m, `crownDrop` 0.00667548 m). Report `Trials/Runs/apple-t1g-report.md`; helpers `_t1g-state.py`, `_t1g-runs.sh`, `_t1g-accept.py`, `_t1g-photo.sh`. **T1h 19.09** (apple worker, zero source edits, seven physics labels + one picture on the player fp `a4b8dbbf…` gitCommit `2779a3bb`, built `18:12:46Z`, 632 files, buildGuid `d75635ef6b224ed7b03190612f123abf`, gate REBUILT and **"OK at 21:12"** because the player on disk `01d56460` at 20:49:52 was older than `Assets/ArmDrive.cs` at 21:00:25 — another lane's edit — 0 `error CS`, no editor, no lock, plant sources clean against HEAD): T1 still had no open work, so the cycle is its own acceptance test — **11 of 11 positive pairs bit-identical** (run block AND build block AND **0 of 1600 `joints.csv` rows**) for `apple_t1h_hold`/`_wind012`/`_windoff` against the canon `apple_t1sw_hold`/`_wind012` / `apple_t1c2_windoff`, the wind-off repeat against its own sibling, the same three against the previous cycle's `apple_t1g_*`, and `tree_t1h_*` against `tree_t1oak_*` / `tree_t1g_wind012`; the apple canon now reproduces across **six** players (`cb7e4ef6` -> `4681f70b` -> `3c4dfc53` -> `fc6471dd` -> `0fd4f288` -> `a4b8dbbf`), rigs unchanged (`b242a8ddd29b0b28` / `dcc15b908146504e`), `jointColumnCount` 15, born-behind 0/15 (4/15 on the PRE-T2 pair), no joint at its cap in any row — the negative controls move as they must (PRE-T2 pair 23 run keys / 11 added, CSV from row 1; STALE `apple_t1sw_windoff` 12 keys, CSV from row 2, fourth confirmation) and `tree-const-assert.py` FIRES on the same discrete sets (apple 3, oak 1). Picture `apple_t1h_photo_windoff` (41 frames, 5 fps, 1080p) is **byte-identical by `md5`, frames included, to the four previous cycles' pictures** (mp4 `d10ec27dd1a265eba217397e748d24a6` 865 646 B, still `347e44cefeb516f93d60adf2504ab3c3` 725 666 B, sampled frames `00`/`01`/`02`/`40` hash-identical), one whole apple tree centred and fully inside the frame, nothing else in scene (checked on the image). Wind off at 4 s proven again on the trace: row-identical to its own wind-on sibling through row 800, first differing at row 801 (t = 4.004949), release peak 6.448067 past the wind-on 6.335289, residual 0.022004 deg from the hold pose, crown tip back within 0.000672 m, mean |dAngle|/step 0.076571 startup -> 0.000811 (first second after the gate) -> 0.000061 (last second) against 0.000289 wind-on and 0.000021 for the no-wind hold. The three unmet acceptance numbers are unchanged and belong to T4/T5 (pinned 0.06666667 with J08 0.674024 deg outside its own SOFT stop in still air and overrun 2.066446 deg under wind, settled sway 0.02222349 m against 0.10-0.30, `crownDrop` 0.00667548 m against 2 mm; lean 1.166476, base slide 0). Report `Trials/Runs/apple-t1h-report.md`; helpers `_t1h-runs.sh`, `_t1h-accept.py`, `_t1h-photo.sh`, `_t1h-detail.py`, `_t1h-decay.py`, `_t1h-dump.py`. | `.cursor/tasks/TREES-plan.md`; `plant-physics.mdc` |
 | artist | bark/leaf placeholder; physics sizes stay | `.cursor/tasks/ART-TREE.md` |
